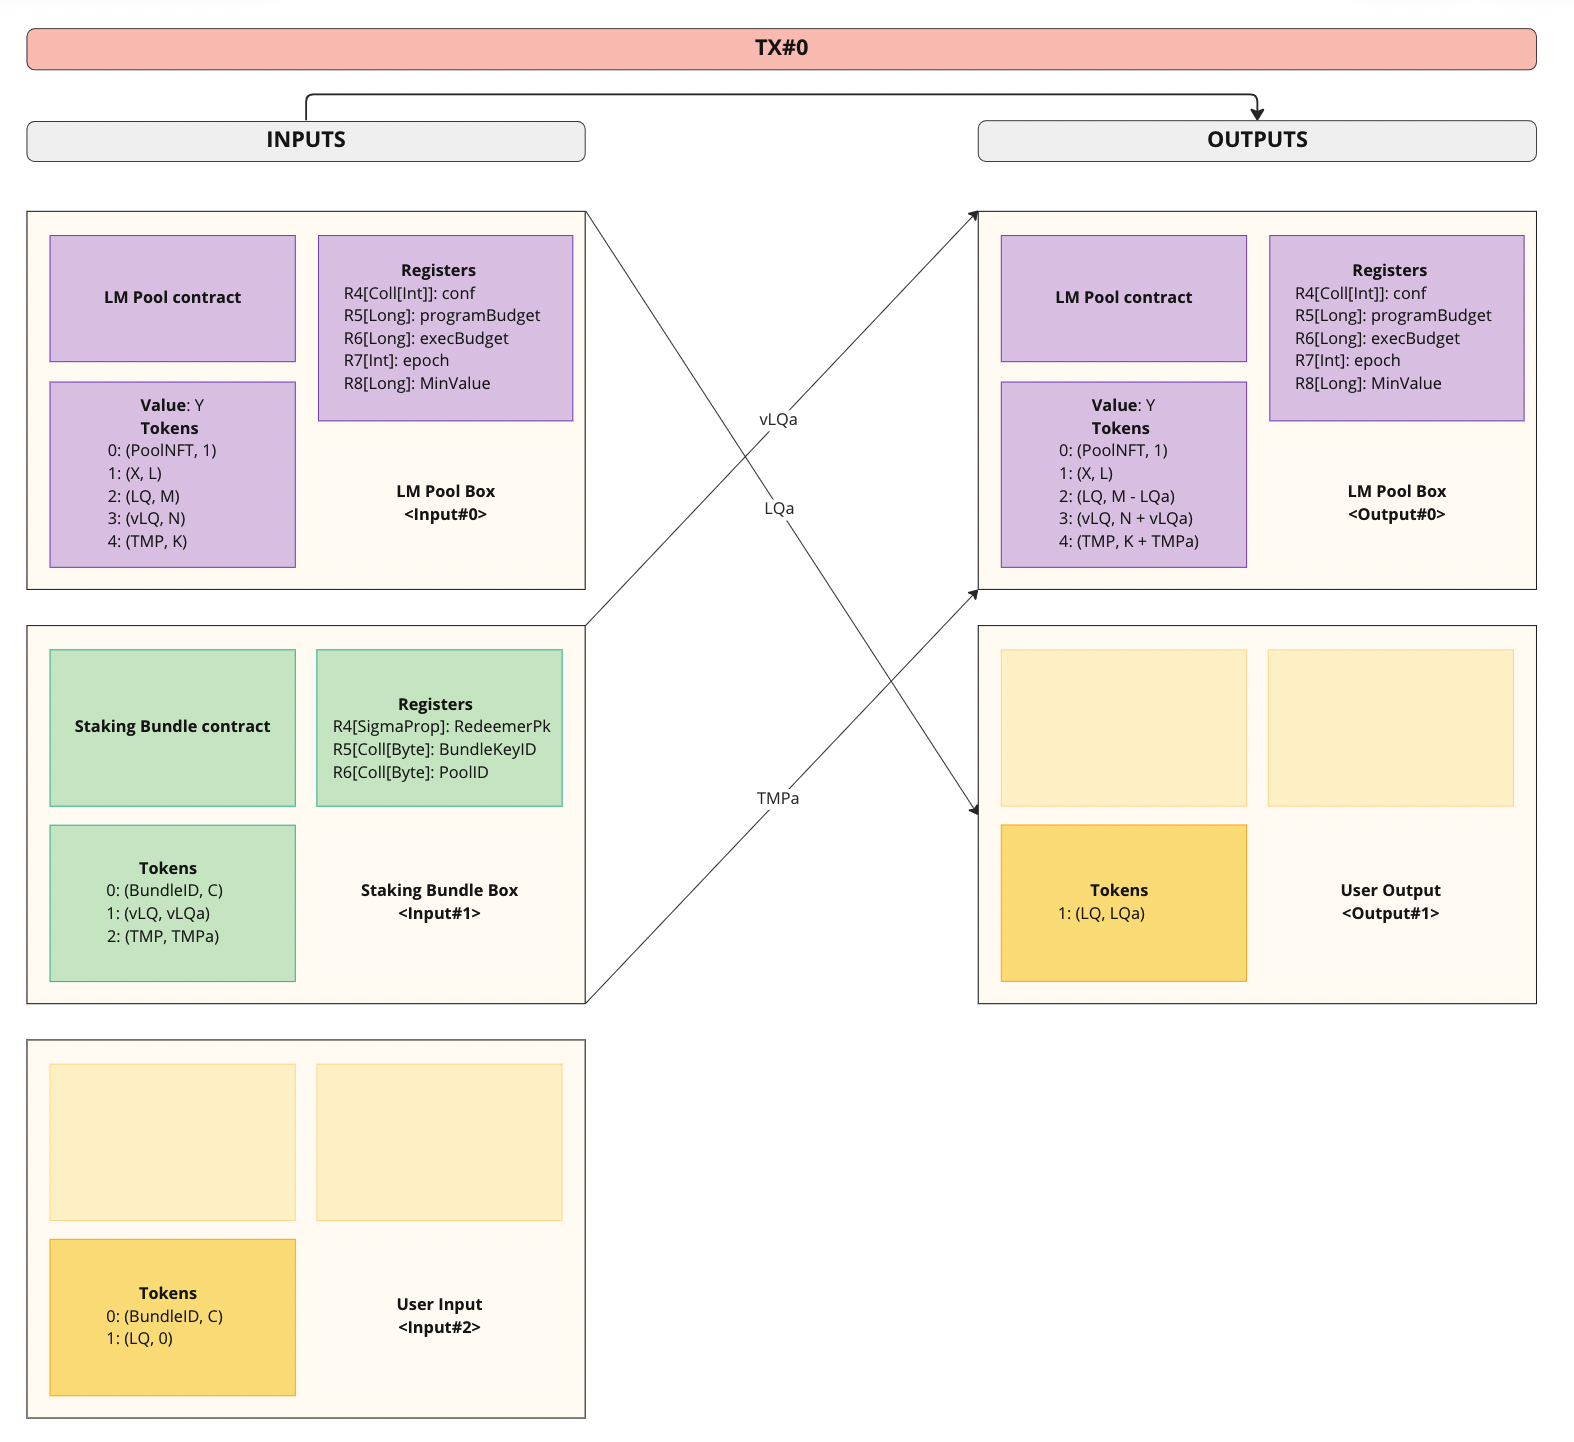
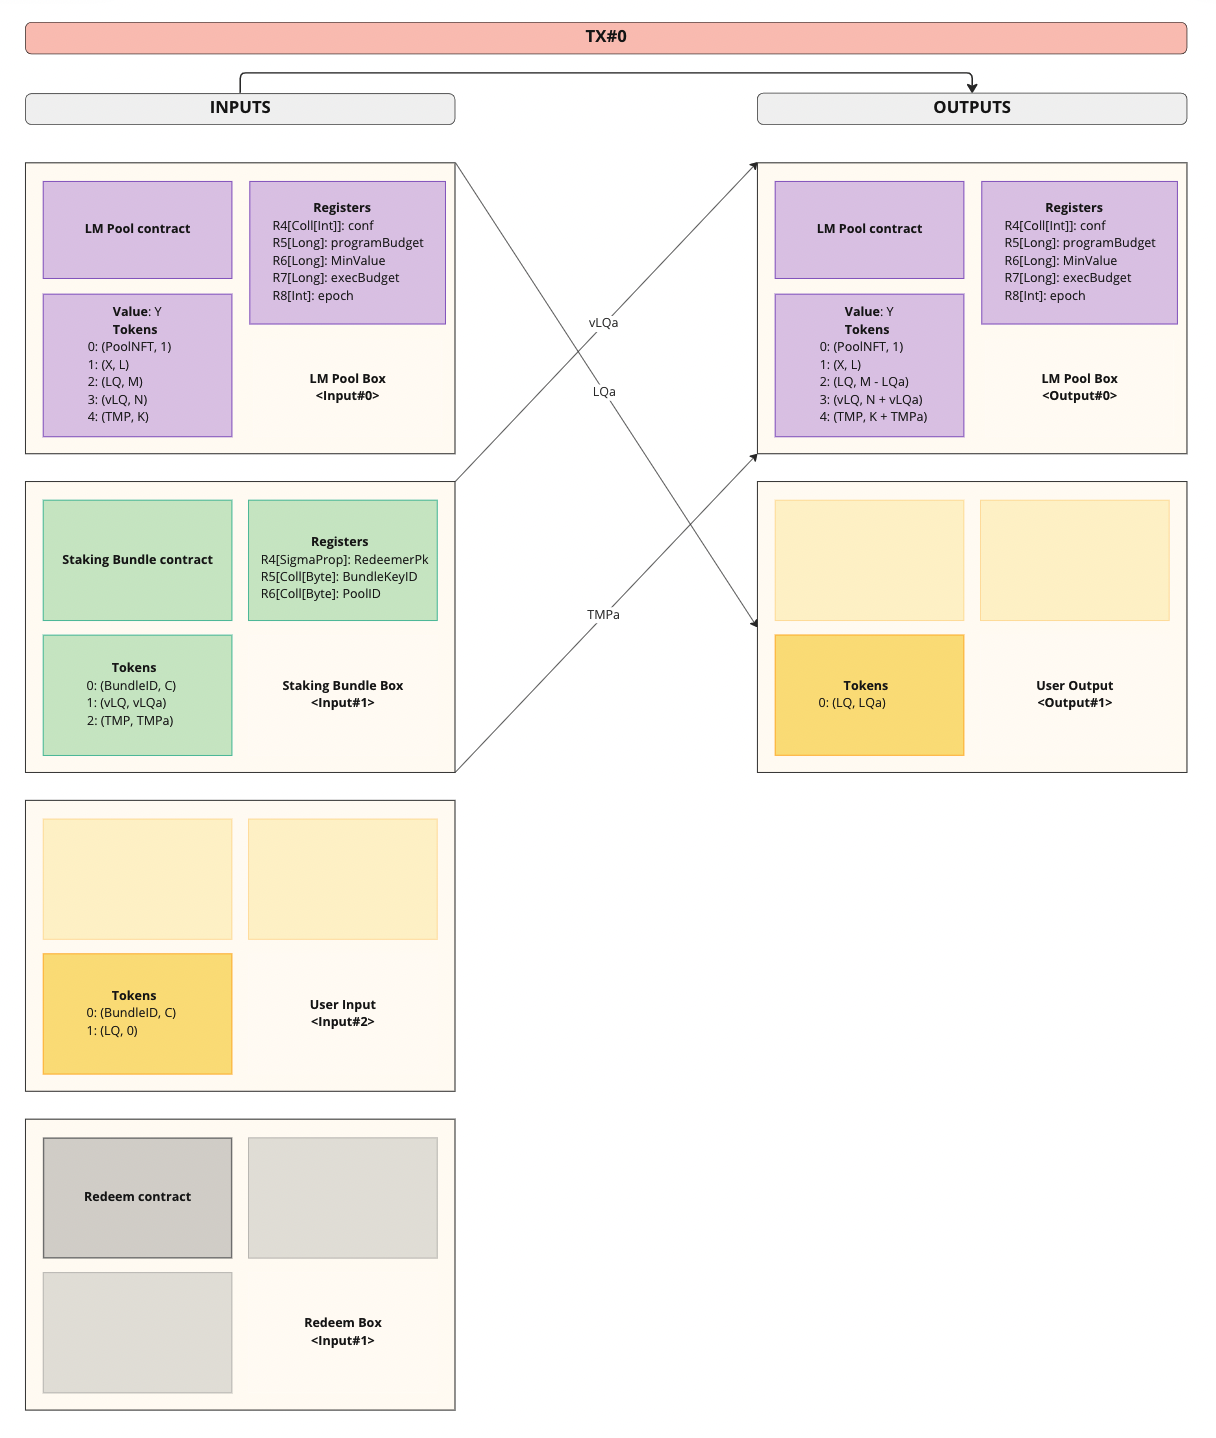
Registers mapping changed. Conditions validation simplified.

diff --git a/protocols/LqMiningSimple.md b/protocols/LqMiningSimple.md
@@ -13,9 +13,9 @@ Liquidity Mining (LM) Pool is represented on-chain as a UTxO with the following 
 | `epochNum`      | `Integer`   | Number of epochs in LM program         |
 | `programStart`  | `Integer`   | Block the program starts at            |
 | `programBudget` | `Long`      | Total LM program budget                |
+| `minValue`      | `Long`      | Total allowable residual from rounding |
 | `execBudget`    | `Long`      | Total execution budget                 |
 | `epoch`         | `Int`       | Index of the epoch being compounded    |
-| `minValue`      | `Long`      | Total allowable residual from rounding |
 
 _Notes_:
 * `execBudget` is not necessary for Self-Hosted LM Pool
@@ -70,7 +70,8 @@ Alice wants to participate in LM program X. To do that, she sends `LQa` ADA/Xt L
 address and receives bundled (see "Staking bundle" section above) `vLQa` vLQ tokens + `TMPa` temporal tokens in return,
 where `vLQa` - amount of LQ tokens deposited, `LQa = vLQa`, `TMPa = (EpochNum - (Height - ProgramStart + 1)) * vLQa`
 
-![LMDeposit0](./../img/LMDeposit.png)
+![LMDeposit0](./../img/LMDeposit0.png)
+![LMDeposit1](./../img/LMDeposit1.png)
 
 _Notes_:
 * If the user wants to add more LQ tokens, a new "Staking bundle" will be released
@@ -87,7 +88,7 @@ Each staker automatically receives a reward of `EpochReward * StakerLQ / LockedL
 Once Alice decided to unstake her liquidity she returns her staking bundle to LM Pool and receives proportional amount of LQ tokens
 to the amount of vLQ returned. Redemption is only allowed when all epochs Alice is eligible for are compounded.
 
-![LMRedeem0](./../img/LMRedeem.png)
+![LMRedeem](./../img/LMRedeem.png)
 
 _Notes_:
 * User can redeem his LQ tokens before and after program end
